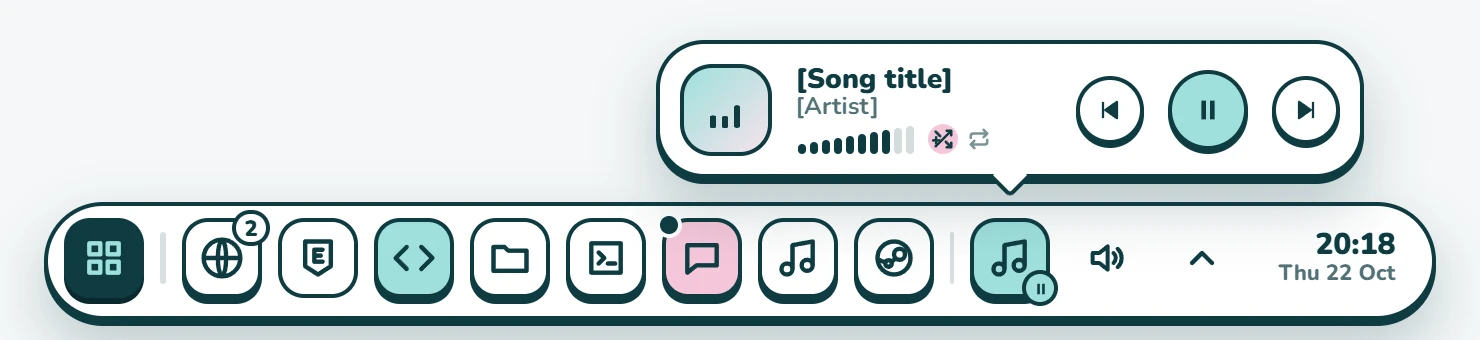
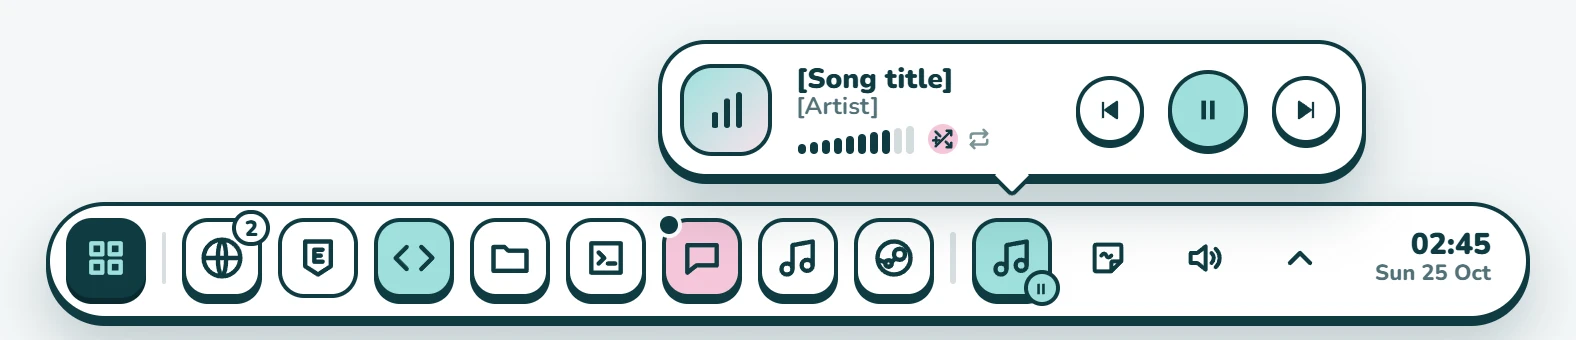
Version 1.14.0 (post-it, updates in the island, phone size and position)
What's new gets the post-it and the island; the post-it's icon moves to
icons.ts. README: the post-it, the island, and the bar screenshot retaken
with the pencil (wider crop).

diff --git a/src/news.ts b/src/news.ts
@@ -8,7 +8,7 @@ import { version } from '../package.json';
 import { el, notifParts } from './dom';
 import { PREVIEW } from './host';
 import { LOCALE, tr } from './i18n';
-import { ICONS, WRENCH } from './icons';
+import { DOWNLOAD, ICONS, NOTE, WRENCH } from './icons';
 
 const $ = (id: string) => document.getElementById(id) as HTMLElement;
 
@@ -29,8 +29,10 @@ const MENU = 'M9 6h11M9 12h11M9 18h11M4 6h.01M4 12h.01M4 18h.01';
 export const NEWS: { version: string; date: string; items: Item[] }[] = [
   {
     version: '1.14.0',
-    date: '2026-10-24',
+    date: '2026-10-25',
     items: [
+      { d: NOTE, bg: '#ffe08a', title: tr('Post-it', 'Sticky note'), body: tr('Le crayon de la barre pastel : dessiner, copier, enregistrer en PNG', 'The pastel bar’s pencil: draw, copy, save as PNG') },
+      { d: DOWNLOAD, bg: 'var(--fill)', title: tr('Mises à jour bien visibles', 'Updates you can’t miss'), body: tr('L’île du téléphone s’allonge, un point apparaît sur Apps', 'The phone’s island grows, a dot shows on Apps') },
       { d: SIZE, bg: 'var(--fill)', title: tr('Taille du téléphone', 'Phone size'), body: tr('De 70 à 120 %, dans Apparence › Téléphone', 'From 70 to 120%, in Appearance › Phone') },
       { d: PLACE, bg: '#c9d8ff', title: tr('Position du téléphone', 'Phone position'), body: tr('À gauche, au centre ou à droite de l’écran', 'Left, middle or right of the screen') },
       { d: ICONS.star, bg: '#ffe08a', title: tr('Nouveautés', 'What’s new'), body: tr('Cette page, proposée dans Notifs après chaque mise à jour', 'This page, offered in Notifs after each update') },

diff --git a/src/bar.ts b/src/bar.ts
@@ -8,12 +8,12 @@
    edge, says when the mouse is on the pill or clicks elsewhere, and only takes the mouse on
    the rectangles sent by `reportRects`. Browser preview: bar.html (?screen=2).
    ══════════════════════════════════════════════════════════ */
-import { CLOSE, ICONS, LEFT, MIC, MIC_OFF, OPEN, PIN, PLUS, RIGHT, SPEAKER, SPEAKER_OFF, icon } from './icons';
+import { CLOSE, ICONS, LEFT, MIC, MIC_OFF, NOTE, OPEN, PIN, PLUS, RIGHT, SPEAKER, SPEAKER_OFF, icon } from './icons';
 import { el, iconCanvas, latestOnly } from './dom';
 import { applyColors, palette, setAppearance } from './appearance';
 import { CONFIG, setConfig } from './config';
 import { LANGUAGE, LOCALE, percent, rememberLanguage, tr, translatePage } from './i18n';
-import { NOTE, initNote, noteHidden, noteShown } from './note';
+import { initNote, noteHidden, noteShown } from './note';
 import {
   PREVIEW, host, type AppIcon, type AudioState, type BarWindow, type NowPlaying, type PinnedApp, type RepeatMode,
   type ShuffleMode, type SpotifyVolume, type TrayAction, type TrayApp,

diff --git a/src/icons.ts b/src/icons.ts
@@ -58,6 +58,8 @@ export const PLUS = 'M12 5v14M5 12h14';
 export const DOWN_ARROW = 'M12 4v11M7 10l5 5 5-5';
 export const TRAY = 'M5 20h14';
 export const DOWNLOAD = DOWN_ARROW + TRAY;
+/* Post-it: the pill's button (and What's new): a note with its corner folded and a scribble */
+export const NOTE = 'M5 4h14a1 1 0 011 1v9l-6 6H5a1 1 0 01-1-1V5a1 1 0 011-1zM14 20v-5a1 1 0 011-1h5M8 10.5c1.2-1.6 2.4-1.6 3 0s1.8 1.6 3 0';
 
 /* Sound, for the phone and the bar */
 export const SPEAKER = 'M4 9h4l5-4v14l-5-4H4zM16.5 9a4 4 0 010 6M19 6.5a7.5 7.5 0 010 11';

diff --git a/src/note.ts b/src/note.ts
@@ -49,8 +49,6 @@ const PAPERS = [
   { c: '#ffffff', name: tr('Blanc', 'White') },
 ];
 
-/* The pill's button: a note with its corner folded and a scribble */
-export const NOTE = 'M5 4h14a1 1 0 011 1v9l-6 6H5a1 1 0 01-1-1V5a1 1 0 011-1zM14 20v-5a1 1 0 011-1h5M8 10.5c1.2-1.6 2.4-1.6 3 0s1.8 1.6 3 0';
 const UNDO = 'M9 14L4 9l5-5M4 9h10.5a5.5 5.5 0 010 11H11';
 const REDO = 'M15 14l5-5-5-5M20 9H9.5a5.5 5.5 0 000 11H13';
 const ERASE = 'M8.5 20l-4-4a2 2 0 010-2.8l9.2-9.2a2 2 0 012.8 0l4 4a2 2 0 010 2.8L13 20zM20 20h-7M9 9.5l6.5 6.5';

diff --git a/CLAUDE.md b/CLAUDE.md
@@ -14,7 +14,7 @@ User: Funsaiki, developer (TypeScript, Vite, Lit). Funsaiki speaks French: **alw
 - `apps.example.json` (French) and `apps.example.en.json` (English): example config, same format as the first launcher.
 - `src/`: the front (Vite + TypeScript); `src-tauri/`: Rust.
 - `bar.html`: the pastel bar; preview `http://localhost:1420/bar.html` with `npm run dev`.
-- `README.md`: the presentation of the public repo (2026-10-21), in English (Funsaiki's request; interface labels are quoted in English, its default language outside a French Windows). It credits the inspiration for the design, with its author's permission: u/Single-Flamingo-8194's post on r/unixporn. The screenshots in `docs/` (WebP) come from the browser preview in English (`?lang=en`, retaken on 2026-10-22), with its sample data: nothing personal. Retake them if the design changes (crops: quick settings view and Settings page 470 190 500 710, apps view 230 230 960 670, bar 350 730 740 170 with the player open; scale 2). No license, Funsaiki's choice (2026-10-21): the code can be read but not reused; the README says so ("All rights reserved"). Do not add a LICENSE file unless Funsaiki asks.
+- `README.md`: the presentation of the public repo (2026-10-21), in English (Funsaiki's request; interface labels are quoted in English, its default language outside a French Windows). It credits the inspiration for the design, with its author's permission: u/Single-Flamingo-8194's post on r/unixporn. The screenshots in `docs/` (WebP) come from the browser preview in English (`?lang=en`, retaken on 2026-10-22), with its sample data: nothing personal. Retake them if the design changes (crops: quick settings view and Settings page 470 190 500 710, apps view 230 230 960 670, bar 326 730 788 170 with the player open (wider since the post-it's pencil, 2026-10-25); scale 2, WebP straight from `Page.captureScreenshot`, quality 90). No license, Funsaiki's choice (2026-10-21): the code can be read but not reused; the README says so ("All rights reserved"). Do not add a LICENSE file unless Funsaiki asks.
 
 ## Rules (must be followed)
 
@@ -277,7 +277,7 @@ What belongs to each person stays in their files in `%APPDATA%\dev.lanceur.paste
   - Notifs, at the top of the feed (`feed`, `kind: 'update'`): "Pastille · Update X available" (`applications` icon on the accent, like the welcome; doesn't open the tab on its own); "Clear all" hides it until the next version. Click: "Downloading X…", signature checked, installer in passive mode (progress bar only), then Pastille quits (the plugin's `std::process::exit`; before, `on_before_exit` gives back the Windows bar like a Quit and removes the icon); the installer relaunches Pastille. Failure: Notifs ("Pastille").
   - Development: nothing, except `$env:PASTILLE_UPDATE = 1` (the real release) or the address of a latest.json (https only) before `npm run tauri dev`: any version is offered, the click downloads and checks the signature without installing.
   - Diagnostic, without installing anything or opening a window, independent of the installed Pastille: `cargo test --test update_check -- --ignored --nocapture` (latest.json, download, signature); run by the workflow after each release (`verification` job). It's an integration test: build.rs can only give this kind of target the Windows common controls manifest, without which a test that creates a Tauri app doesn't start (STATUS_ENTRYPOINT_NOT_FOUND).
-  - **More visible** (requested by Funsaiki on 2026-10-25: "more than just in the Notifs tab"; Funsaiki's choice among four options: the island and the dot). **Island**: once the phone is up (0.65 s after opening, or after the rotation back from the apps view), the island grows to the left (lens in place, `right` instead of a centered `translateX`: same rendering), 0.55 s with a slight bounce (`cubic-bezier(.34, 1.4, .64, 1)`), then shows an accent download arrow and "Mise à jour" / "Get update" (12 px 900, white; accent on hover; "Update" alone would only grow it by 4 px). Width from the label (+67 px: 130 and 132 px); the status bar leaves 132 (10 px from the widest date, "Sam. 21 mars"; none on the right). Click: install, like the notification (tooltip "Pastille X is available · Click: install (Pastille restarts)"); while downloading, the arrow drops into its tray again and again. Quick settings view only (laid flat, the island is beside the apps view), inert behind the power menu. **Pill**: 14 px accent dot with a 2.5 px ink border at the top right of Apps, which pops in (0.3 s after the pill comes out, each time), tooltip "Update X available"; `update_available` read each time the pill comes out. "Clear all" hides the notification, not the island or the dot.
+  - **More visible** (requested by Funsaiki on 2026-10-25: "more than just in the Notifs tab"; Funsaiki's choice among four options: the island and the dot; released in 1.14.0 at Funsaiki's request right after). **Island**: once the phone is up (0.65 s after opening, or after the rotation back from the apps view), the island grows to the left (lens in place, `right` instead of a centered `translateX`: same rendering), 0.55 s with a slight bounce (`cubic-bezier(.34, 1.4, .64, 1)`), then shows an accent download arrow and "Mise à jour" / "Get update" (12 px 900, white; accent on hover; "Update" alone would only grow it by 4 px). Width from the label (+67 px: 130 and 132 px); the status bar leaves 132 (10 px from the widest date, "Sam. 21 mars"; none on the right). Click: install, like the notification (tooltip "Pastille X is available · Click: install (Pastille restarts)"); while downloading, the arrow drops into its tray again and again. Quick settings view only (laid flat, the island is beside the apps view), inert behind the power menu. **Pill**: 14 px accent dot with a 2.5 px ink border at the top right of Apps, which pops in (0.3 s after the pill comes out, each time), tooltip "Update X available"; `update_available` read each time the pill comes out. "Clear all" hides the notification, not the island or the dot.
   - Preview: `?update`. 1.10.2 and earlier versions have no updates: the first version that has them (1.11.0) is installed by hand. First update, 1.11.0 → 1.12.0, tried by Funsaiki on 2026-10-23: works.
   - Skipping versions: always the latest release (full installer), whatever the installed version. The update found stays in memory until the next check: clicked after a newer release came out, it installs the one found (its release must still exist), which then offers the newest. What the installed copies rely on must never change: signing key, address of latest.json (repo name), identifier, releases published by the workflow.
 
@@ -354,7 +354,7 @@ Four reviews (Rust, phone, pastel bar, then each finding checked in the code or 
 
 ### Addition — Post-it (requested by Funsaiki on 2026-10-25: "a fairly simple drawing feature, post-it sized, with a few nice features")
 - Funsaiki's choices: a card of the pastel bar; colors, sizes, eraser, undo and redo; copy the image, save as PNG, several notes, paper color.
-- Steps: 1. mockup in the bar preview (`src/note.ts`), validated by Funsaiki on 2026-10-25 ("everything is perfect", tried in the preview); 2. wiring (`note.rs`), asked for before releasing 1.14.0.
+- Steps: 1. mockup in the bar preview (`src/note.ts`), validated by Funsaiki on 2026-10-25 ("everything is perfect", tried in the preview); 2. wiring (`note.rs`), asked for before releasing 1.14.0, validated the same day in the development build ("Niquel", saving and the torn-off sheet included).
 - Pill: a pencil circle (`bar-round`, note with a folded corner) before the speaker, on every screen. Card (`.bar-card`, 300 px, like the calendar): "Post-it 1/2" (count badge like the notification area's) between ‹ and › (on the last note, +: a new note with the next paper, unless it is blank; 8 at most), undo and redo on the right; 267 px square sheet (2.5 px border, radius 14, `0 3px 0` shadow), the next note's edge behind it (rotated 3°), arriving from the side it was flipped toward (`tp-in-r` / `tp-in-l`, like the pages); pens as 22 px dots like the Customize swatches (ink, then the palette stronger: pink `#e0669a`, blue `#5b84ee`, mint `#2fb0a8`, amber `#f5a524`; a pastel pen hardly shows on pastel paper), sizes 3, 6 and 12 px, eraser three times as wide; papers as 20 px squares (yellow `#ffe08a`, pink, blue, mint, white), copy, save, clear (pink on hover, can be undone). Cursor: a circle of the stroke's size and color.
 - A blank note goes away once left and when the card closes, except the last one. Undo and redo per note while the page lives (100 steps); Ctrl+Z / Ctrl+Y in the preview only.
 - Strokes as vectors (a point every 1.5 px at least, rounded to 0.5 px, quadratic curves through the middles), canvas at the screen's scaling; image at 2× (524 px) on the paper. Kept in localStorage `notes` (`{ at, sheets: [{ paper, strokes: [{ c, w, p }] }] }`, `c` null for the eraser): the bar's pages share it (same WebView2 profile), those of the other screens follow (storage event); no file needed.
@@ -380,6 +380,7 @@ Four reviews (Rust, phone, pastel bar, then each finding checked in the code or 
 - **1.11.0** (2026-10-21, "Go ahead, publish"): automatic updates (see Opening to other PCs, track 5), tests in GitHub Actions. `Pastille_1.11.0_x64-setup.exe` (3 MB), built and signed by the workflow (tag `v1.11.0`), with `latest.json`. Last version to install by hand; the first automatic update will happen with the next version.
 - **1.12.0** (2026-10-22, "make a new release with our changes, it will let me test the update feature at the same time"): Settings page (language, Start with Windows, pastel bar, shortcut, Appearance, Spotify, apps.json, version and update, Quit; tray icon menu reduced to Show, Settings, Quit), interface in English and French, repo in English (comments, brief, logs, internal names), settings files and keys renamed in English (the old ones renamed at startup). Release by the `v1.12.0` tag. The first automatic update, from 1.11.0: works (Funsaiki, 2026-10-23, "Works perfectly").
 - **1.13.0** (2026-10-23, "It works perfectly, you can make a release again"): the phone's tilt (Phone tab of the Appearance section), a tray app's right-click menu over the phone instead of sending it down. Release by the `v1.13.0` tag, built from a separate worktree while Funsaiki's `tauri dev` was running (src-tauri can't be touched then).
+- **1.14.0** (2026-10-25, "Make a new release", after the island and the dot; "Clear all" left as it is, hiding neither): the phone's size and position, What's new, the 2026-10-24 code review, the post-it in the pastel bar, updates shown by the island and a dot on Apps. Release by the `v1.14.0` tag; the development build stopped first. README: the post-it and the island; bar screenshot retaken with the pencil.
 - **GitHub releases** (requested by Funsaiki on 2026-10-17, "both"): installer downloadable from `https://github.com/Funsaiki/pastille/releases/latest`. **Public repo** since 2026-10-21 (history checked: no secret, spotify.json never tracked; commits signed "Funsaiki", GitHub's masked address, the repo's local setting). `v1.7.0` published by hand (`gh release create`, installer built on Funsaiki's PC). Then `.github/workflows/release.yml` ("Installateur" until 2026-10-21): a pushed `vX.Y.Z` tag runs the tests, builds on `windows-latest` (`tauri-action`), publishes the release with the installer, then checks the published release (`verification`); the tag must be the version of tauri.conf.json (checked, otherwise it fails). Don't rename or delete a workflow while it's running: 1.11.0 failed that way when creating the release ("Resource not accessible by integration", the `installateur.yml` file had just been renamed), then the tag, without a release, was moved to the next commit. Run by hand (`gh workflow run Release`): tests and build only, installer in the artifacts. **Tests in GitHub Actions** (Funsaiki's request of 2026-10-21: "let the CI/CD handle it" rather than running them locally): `.github/workflows/tests.yml`, on each push to main, on each pull request and before each release (`workflow_call`): `npm run build` (types and front build) and `cargo test` on Windows, without the `#[ignore]` diagnostics that read the real PC. After a push, look at the result (`gh run list --workflow Tests`, `gh run watch`) rather than running the tests again locally. For a version: change the version in the three files and add its entry to `NEWS` (src/news.ts) if it brings something visible, commit, `git tag vX.Y.Z`, `git push origin vX.Y.Z`, then the notes (`gh release edit vX.Y.Z --notes-file …`). **Everything in the repo and on GitHub is in English** (Funsaiki's request of 2026-10-21, "start doing everything in English for what is visible on GitHub", extended on 2026-10-22 to this brief and the code comments): commit messages, release notes and text, workflows (names, steps, comments), README, code comments, CLAUDE.md. Interface labels are quoted in English. Still in French: the French half of the interface; answers to Funsaiki too. Public repo: free Actions minutes. Installer not signed for Windows: SmartScreen warning (the update signature is something else). Building the installer locally: `$env:TAURI_SIGNING_PRIVATE_KEY = "$env:USERPROFILE\.tauri\pastille.key"` before `npm run tauri build` (this session only), otherwise the build fails at the update signature.
 - Version 1.0.0 (package.json, Cargo.toml, tauri.conf.json). NSIS installer, per user (`installMode: currentUser`, without administrator rights): `npm run tauri build` → `src-tauri/target/release/bundle/nsis/Lanceur pastel_1.0.0_x64-setup.exe` (≈ 2 MB).
 - The first launcher doesn't start with Windows on Funsaiki's PC and wasn't running (checked in `HKCU\…\Run`, read-only): no conflict on Alt+Space.

diff --git a/README.md b/README.md
@@ -12,7 +12,7 @@ The design is inspired by a [Project Sekai inspired Hyprland setup](https://www.
   <img src="docs/apps.webp" alt="The phone laid flat: apps, recents and folders" width="760">
 </p>
 <p align="center">
-  <img src="docs/bar.webp" alt="The pastel bar with the Spotify player open" width="740">
+  <img src="docs/bar.webp" alt="The pastel bar with the Spotify player open" width="788">
 </p>
 
 > The interface is in English and French: Pastille starts in the language of Windows, and the settings page switches between the two.
@@ -23,7 +23,7 @@ The design is inspired by a [Project Sekai inspired Hyprland setup](https://www.
 - Volume, microphone, per-app volume mixer, CPU and memory usage, network speed.
 - Spotify now playing: title, cover art, controls and, once Spotify is connected, its own volume, shuffle and repeat.
 - Shortcuts to Wi-Fi, Bluetooth, Windows Settings and a power menu (with confirmation).
-- A **Settings** page, behind the wrench next to your name: language, start with Windows, the pastel bar, customization, Spotify connection, `apps.json`, updates.
+- A **Settings** page, behind the wrench next to your name: language, start with Windows, the pastel bar, customization, Spotify connection, `apps.json`, updates and what's new.
 - **Apps** tab: apps running in the background (notification area). **Notifs** tab: recent downloads, Steam updates, restart required by Windows Update, low disk space.
 
 **Apps**
@@ -37,6 +37,7 @@ The design is inspired by a [Project Sekai inspired Hyprland setup](https://www.
 - Open windows with hover previews, pinned apps and alerts.
 - The notification area, whose icons respond just like in the Windows taskbar (right-click included).
 - Sound, a calendar and a Spotify player.
+- A sticky note to draw on, with several pages: copy the drawing or save it as PNG.
 
 **Customize** (in the settings page)
 - Accent, case, screen and ink colors, from a palette or any custom color.
@@ -49,7 +50,7 @@ The design is inspired by a [Project Sekai inspired Hyprland setup](https://www.
 2. The installer is not signed, so Windows shows "Windows protected your PC". Click "More info", then "Run anyway".
 3. Pastille opens by itself the first time. After that, **Alt+Space** opens and closes it; Escape or a click outside the phone closes it too.
 
-Updates: from version 1.11.0, Pastille checks the releases by itself and shows new versions in its **Notifs** tab; one click downloads, verifies and installs the update, then Pastille restarts. Earlier versions are updated by running the new installer, after quitting Pastille. Your config, Spotify connection and customization are kept.
+Updates: from version 1.11.0, Pastille checks the releases by itself and shows new versions in its **Notifs** tab, and from 1.14.0 on its island and on the pill's Apps tile too; one click downloads, verifies and installs the update, then Pastille restarts. Earlier versions are updated by running the new installer, after quitting Pastille. Your config, Spotify connection and customization are kept.
 
 Settings are in the phone: click the wrench next to your name. The menu of Pastille's icon, next to the clock, has **Show**, **Settings** and **Quit**; when the pastel bar is on, open this menu by right-clicking the Apps tile of the pill.
 
